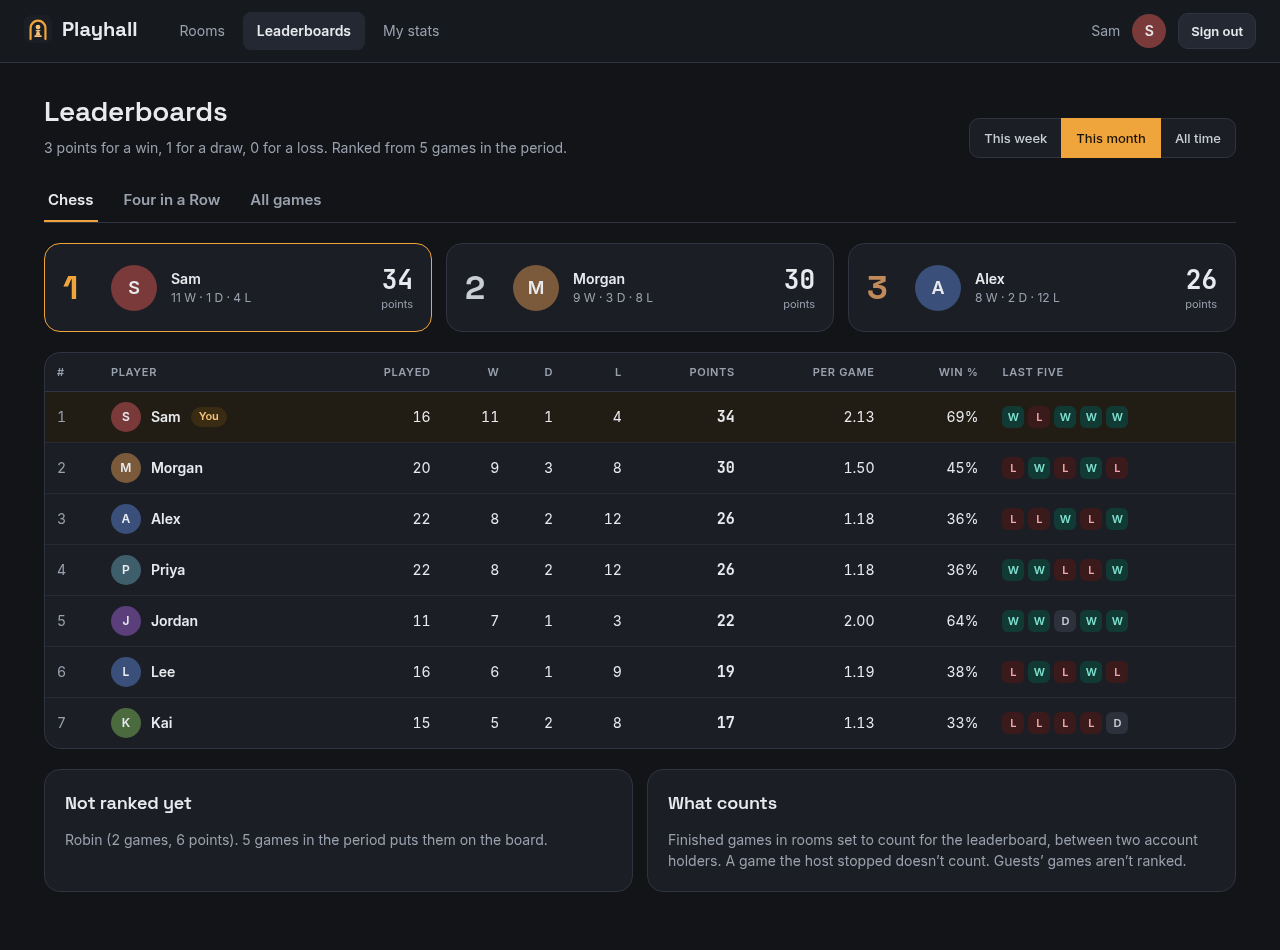
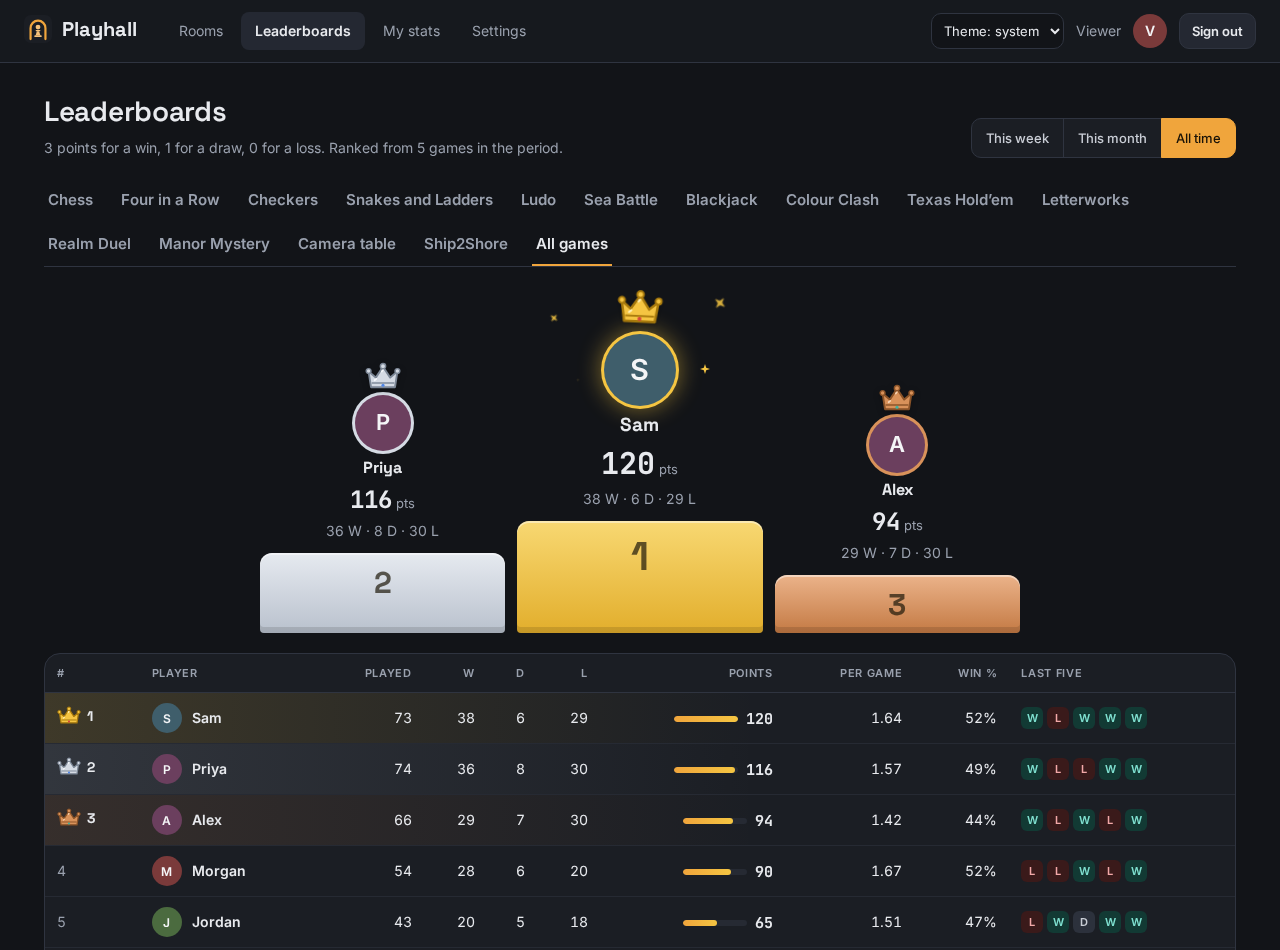
Playhall: the leaderboard podium and crowns

diff --git a/playhall/README.md b/playhall/README.md
@@ -181,7 +181,9 @@ A room can also have a **password**. The host and anyone already playing go stra
 
 Every finished game is scored: **3 points for a win, 1 for a draw, 0 for a loss** (in games for three or more, second place will earn 1). The leaderboard ranks players for this week, this month and all time, separately for each game and for all games together, once they've played five games in the period. Only games between people with accounts, in rooms set to count, are scored; a game the host stopped doesn't count.
 
-![This month's chess leaderboard: Sam first with 34 points from 16 games, the podium, every player's record and their last five results](images/10-leaderboard.png)
+The top three stand on a podium, on gold, silver and bronze steps with a crown to match, and the leader gets a glow and a few sparkles. The table below puts the same crowns next to the top three (players who tie share one), shows each player's points as a bar against the leader's, and puts a flame next to anyone who has won three or more in a row.
+
+![The all-time leaderboard for all games: Sam on the gold step in the middle with 120 points, Priya on silver with 116 and Alex on bronze with 94, each with a crown; below, the table with crowns next to the top three, a points bar in every row and everyone's last five results](images/10-leaderboard.png)
 
 Each player has a page of their own: points, games played, points per game, win rate and their current streak; how they do as White and as Black; points week by week; how their games ended; their recent games; and their record against everyone they've played.
 
